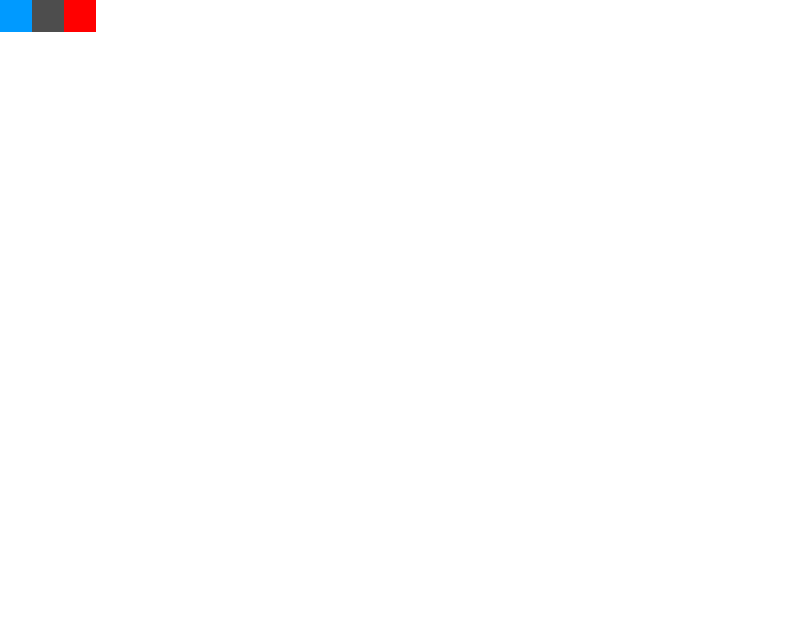
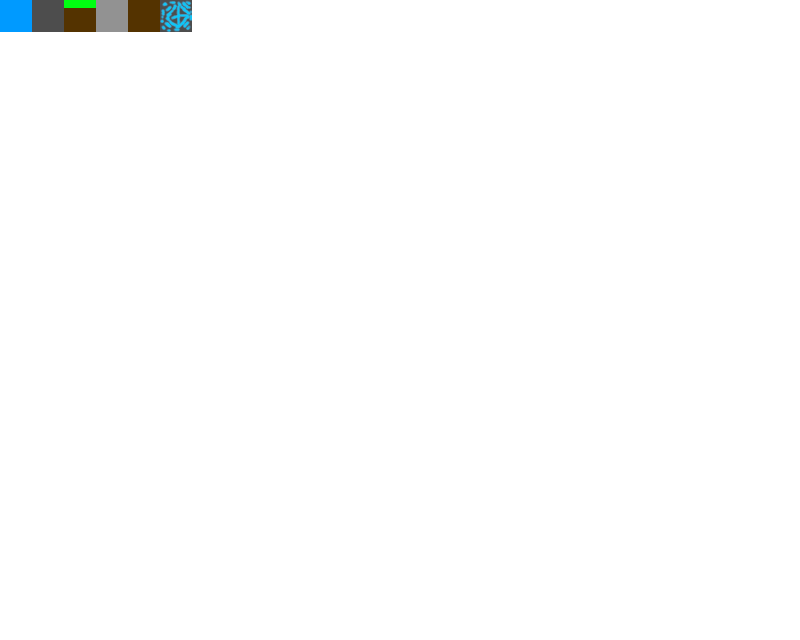
Added more advanced terrain generator

Changed region(s): [[0.0625, 0.0, 0.25, 0.0625]]

diff --git a/World.cpp b/World.cpp
@@ -1,21 +1,21 @@
 #include "World.h"
-#include <iostream>
+
+
 vector<string> World::worldTemplate;
 vector<Block*> World::blockType;
 vector<short> World::randomArray = {
-	1,1,1,1,1,1,1,1,1,1,1,1,1,1,1,1,1,1,0,0,0
+	1,1,1,1,1,1,1,1,1,1,1,1,1,1,1,1,1,1,0,
 
 };
 
-void (*World::RandomStructGenerator[])(string&, short, int*) {
-		airGenerator,
-		terrainGenerator,
+void (*World::RandomStructGenerator[])(string&, short, UINT8*) {
 		caveGenerator,
+		terrainGenerator,
 };
 
 
 Block* GetBlockBySymbol(char symbol) {
-	for (int i = 0; i < World::blockType.size(); i++) {
+	for (UINT8 i = 0; i < World::blockType.size(); i++) {
 		if (World::blockType[i]->symbol == symbol) {
 			return World::blockType[i];
 		}
@@ -25,7 +25,7 @@ Block* GetBlockBySymbol(char symbol) {
 }
 
 Block* GetBlockByIndex(short index) {
-	for (short i = 0; i < World::blockType.size(); i++) {
+	for (UINT8 i = 0; i < World::blockType.size(); i++) {
 		if (World::blockType[i]->index == index) {
 			return World::blockType[i];
 		}
@@ -35,10 +35,15 @@ Block* GetBlockByIndex(short index) {
 
 
 
+
+
 void World::Init(Graphics* gfx) {
 
-	blockType.push_back(new Block(L"../source/Graphicss/block.png", gfx, '_', false, Block::air));
-	blockType.push_back(new Block(L"../source/Graphicss/block.png", gfx, '#', true, Block::stone));
+	blockType.push_back(new Block(imgSrc, gfx, '_', false, Block::air));
+	blockType.push_back(new Block(imgSrc, gfx, '#', true,  Block::stone));
+	blockType.push_back(new Block(imgSrc, gfx, '-', true,  Block::grass));
+	blockType.push_back(new Block(imgSrc, gfx, '*', false, Block::cave));
+	blockType.push_back(new Block(imgSrc, gfx, '&' ,true,  Block::diamond, 2, 2));
 
 	randomArrayInitialize();
 	worldTemplateInitialize();
@@ -47,8 +52,8 @@ void World::Init(Graphics* gfx) {
 
 
 void World::Render() {
-	for (int i = 0; i < worldTemplate.size(); i++) {
-		for (int j = 0; j < worldTemplate[i].length(); j++) {
+	for (UINT8 i = 0; i < worldTemplate.size(); i++) {
+		for (UINT8 j = 0; j < worldTemplate[i].length(); j++) {
 			GetBlockBySymbol(worldTemplate[i].at(j))->Render(j, i);
 		}
 	}
@@ -82,21 +87,23 @@ void World::worldTemplateInitialize(void) {
 	srand((unsigned int)time(nullptr));
 
 
-	for (int i = 0; i < blocksCountY; i++) {
+	for (UINT8 i = 0; i < blocksCountY; i++) {
 		worldTemplate.push_back("");
-		for (int j = 0; j < blocksCountX; j++) {
+		for (UINT8 j = 0; j < blocksCountX; j++) {
 			if (i > floorLevel) {
-				//worldTemplate[i] += "#";
 				RandomStructGenerator[randomArray[rand() % randomArray.size()]](worldTemplate[i], i, &j);
 			}
-			else if (i <= floorLevel) {
-				//worldTemplate[i] += "_";
-				RandomStructGenerator[0](worldTemplate[i], 0, nullptr);
+			else if (i < floorLevel) {
+				worldTemplate[i] += GetBlockByIndex(Block::air)->GetSymbol();
+
+			}
+			else if(i == floorLevel) {
+				worldTemplate[i] += GetBlockByIndex(Block::grass)->GetSymbol();
 			}
 
 		}
 	}
-	cout << "done" << endl;
+	
 }
 
 
@@ -104,39 +111,42 @@ void World::worldTemplateInitialize(void) {
 
 
 
-void World::airGenerator(string& target, short deepness, int* iterator) {
-	target += "_";
+void World::airGenerator(string& target, short deepness, UINT8* iterator) {
+	target += GetBlockByIndex(Block::air)->GetSymbol();
 }
 
-void World::terrainGenerator(string& target, short deepness, int* iterator) {
+void World::terrainGenerator(string& target, short deepness, UINT8* iterator) {
 
 
-	target += "#";
+	//target += GetBlockByIndex(Block::stone)->GetSymbol();
 
 	//enum TerrainTypes { dirt = 0, stone = 1, diamond = 2 };
-	//vector <int> randArr;
-	//for (int i = 0; i < 50; i++) {
-	//	randArr.push_back(dirt);
-	//	randArr.push_back(stone);
-	//}
-	//randArr.push_back(diamond);
+	vector <int> randArr;
+	for (int i = 0; i < GetBlockByIndex(Block::stone)->GetSeed(); i++) {
+		randArr.push_back(Block::stone);
+	}
+	randArr.push_back(Block::diamond);
 
-	//int pick = randArr[rand() % randArr.size()];
+	int pick = randArr[rand() % randArr.size()];
 
 
-	//switch (pick) {
-	////case diamond: if (deepness >= blocksCountY - 2)  target += "_"; else target += "#"; break;
-	//case stone: target += '#'; break;
+	switch (pick) {
+	case Block::diamond: 
+		if (deepness >= blocksCountY - 2) {
+			target += GetBlockByIndex(Block::diamond)->GetSymbol();
+		}
+		else target += "#"; break;
+	case Block::stone: target += '#'; break;
 	////case dirt: target += '@'; break;
-	//}
-
+	}
+	
 
 }
 
-void World::caveGenerator(string& target, short deepness, int* iterator) {
+void World::caveGenerator(string& target, short deepness, UINT8* iterator) {
 	if (!iterator) return;
-	for (int i = 0; i < (rand() % 8) && *iterator < blocksCountX; i++) {
-		target += GetBlockByIndex(Block::air)->GetSymbol();
+	for (UINT8 i = 0; i < i < (rand() % 6) && *iterator < blocksCountX; i++) {
+		target += GetBlockByIndex(Block::cave)->GetSymbol();
 		(*iterator)++;
 	}
 	(*iterator)--;

diff --git a/World.h b/World.h
@@ -16,7 +16,7 @@ public:
 	static void Render();
 	static void Update();
 	static vector<Block*> blockType;
-
+	static inline const LPCWSTR imgSrc = L"../source/Graphicss/block.png";
 
 private:
 
@@ -24,22 +24,21 @@ private:
 	static vector<string> worldTemplate;
 
 
+	static inline UINT16 blocksCountX = SCREEN_WIDTH/32;	
+	static inline UINT16 blocksCountY = SCREEN_HEIGHT/32;
+	static inline UINT16 floorLevel = blocksCountY / 2;
+	static inline UINT16 skyLevel = blocksCountY / 5;
 
-
-	static inline unsigned short blocksCountX = SCREEN_WIDTH/32;	
-	static inline unsigned short blocksCountY = SCREEN_HEIGHT/32;
-	static inline unsigned short floorLevel = blocksCountY / 2;
-
-	static void (*RandomStructGenerator[])(string&, short, int*);
+	static void (*RandomStructGenerator[])(string&, short, UINT8*);
 
 
 
 	static void randomArrayInitialize();
 	static void worldTemplateInitialize();
 
-	static void airGenerator(string& target, short deepness, int* iterator);
-	static void terrainGenerator(string& target, short deepness, int* iterator);
-	static void caveGenerator(string& target, short deepness, int* iterator);
+	static void airGenerator(string& target, short deepness, UINT8* iterator);
+	static void terrainGenerator(string& target, short deepness, UINT8* iterator);
+	static void caveGenerator(string& target, short deepness, UINT8* iterator);
 
 
 };

diff --git a/Block.h b/Block.h
@@ -7,23 +7,27 @@ using namespace std;
 class Block {
 
 public:
+
 	friend Block* GetBlockBySymbol(char symbol);
 	friend Block* GetBlockByIndex(short index);
-	Block(LPCWSTR, Graphics*, char, bool, short, short = 50);
+
+	Block(LPCWSTR, Graphics*, char, bool, short, short = 0, short = 50);
 	void Render(short x, short y);
 
 	short GetSeed();
 	short GetMaxGenerationHeight();
-	char GetSymbol();
-	bool IsCollisionEnabled();
+	char  GetSymbol();
+	bool  IsCollisionEnabled();
+	Graphics* gfx;
 	
 
-	Graphics* gfx;
-	enum blockIndexes {
+	static enum blockIndexes {
 		air = 0,
 		stone = 1,
 		grass = 2,
-		dirt = 3,
+		cave = 3,
+		dirt = 4,
+		diamond = 5,
 	};
 
 
@@ -34,12 +38,9 @@ private:
 	short maxGeneratingHeight;
 	short seed;
 	short index;
-	
-
-
 	SpriteSheet* sprites;
 
-	static const inline  short spriteWidth = 32;
-	static const inline  short spriteHeight = 32;
+	static const inline short spriteWidth = 32;
+	static const inline short spriteHeight = 32;
 
 };

diff --git a/Level.cpp b/Level.cpp
@@ -18,25 +18,12 @@ void Level::Unload() {
  
 }
 void Level::Update() {
-    ySpeed += 1.0f;
-    y += ySpeed;
-    if (y > SCREEN_HEIGHT - 100) {
-        y = SCREEN_HEIGHT - 100;
-        ySpeed = -30;
-    }
-    frame++;
+
 }
 
 
 void Level::Render() {
-    //gfx->ClearScreen(0.0f, 0.9f, 0.3f);
-    ///*sprites->Draw((frame / 5) % 5, 100, 100);
-    //sprites->Draw((frame / 5) % 5, 200, 200);
-    //sprites->Draw((frame / 5) % 5, 300, 300);*/
-    ////blockTypes[0]->Render(2, 8);
-    ////blockTypes[1]->Render(1, 8);
-    ////block->Render(2, 5);
-    //gfx->DrawCircle(700, y, 50,0.5,0.5,0.5,1); 
+    gfx->ClearScreen(0,0,0);
     World::Render();
 
 

diff --git a/main.cpp b/main.cpp
@@ -120,7 +120,7 @@ BOOL InitInstance(HINSTANCE hInstance, int nCmdShow)
    hInst = hInstance; // Store instance handle in our global variable
    RECT rect{ 0,0,SCREEN_WIDTH,SCREEN_HEIGHT};
    AdjustWindowRectEx(&rect, WS_OVERLAPPEDWINDOW, false, WS_EX_OVERLAPPEDWINDOW);
-   hWnd = CreateWindowEx(WS_EX_OVERLAPPEDWINDOW,szWindowClass, szTitle,WS_OVERLAPPEDWINDOW,
+   hWnd = CreateWindowEx(WS_EX_OVERLAPPEDWINDOW, szWindowClass, L"The Better Terraria", WS_OVERLAPPEDWINDOW,
       100, 10, rect.right - rect.left, rect.bottom - rect.top, nullptr, nullptr, hInstance, nullptr);
 
     

diff --git a/Block.cpp b/Block.cpp
@@ -5,11 +5,13 @@
 
 
 
-Block::Block(LPCWSTR bitmapPath, Graphics *gfx, char symbol, bool collisionEnabled, short index, short seed) {
+Block::Block(LPCWSTR bitmapPath, Graphics *gfx, char symbol, 
+				bool collisionEnabled, short index, short maxGeneratingHeight, short seed) {
 	this->symbol = symbol;
 	this->collisionEnabled = collisionEnabled;
 	this->gfx = gfx;
 	this->index = index;
+	this->maxGeneratingHeight = maxGeneratingHeight;
 	this->seed = seed;
 	sprites = new SpriteSheet(bitmapPath, gfx, spriteWidth, spriteHeight);
 }

diff --git a/Level.h b/Level.h
@@ -15,9 +15,6 @@ public:
 	void Update() override;
 
 private:
-	int frame;
-	float y;
-	float ySpeed;
 	Block* block;
 	SpriteSheet* sprites;
 
